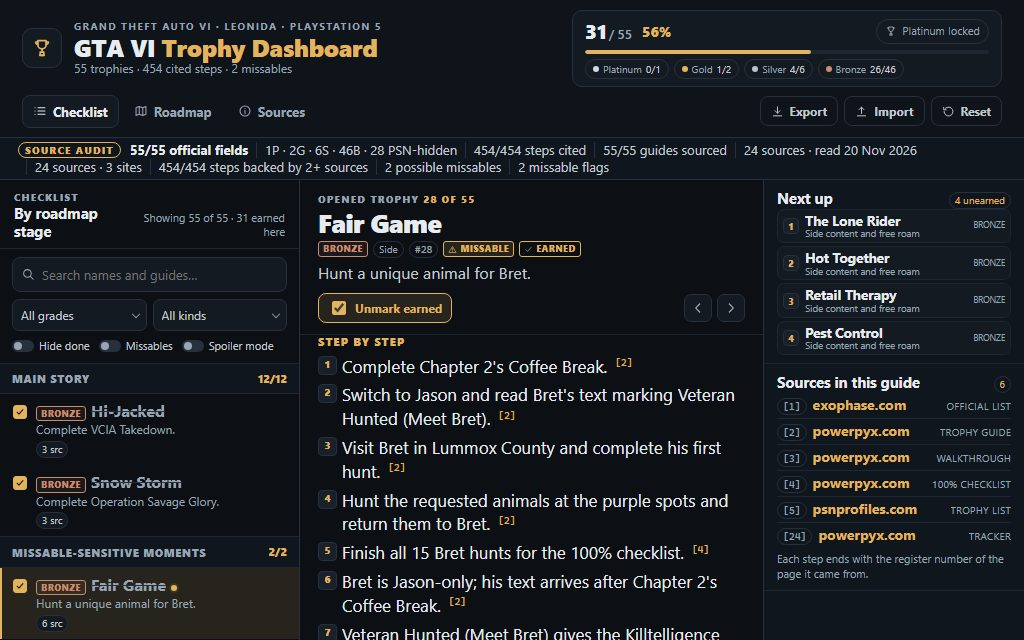
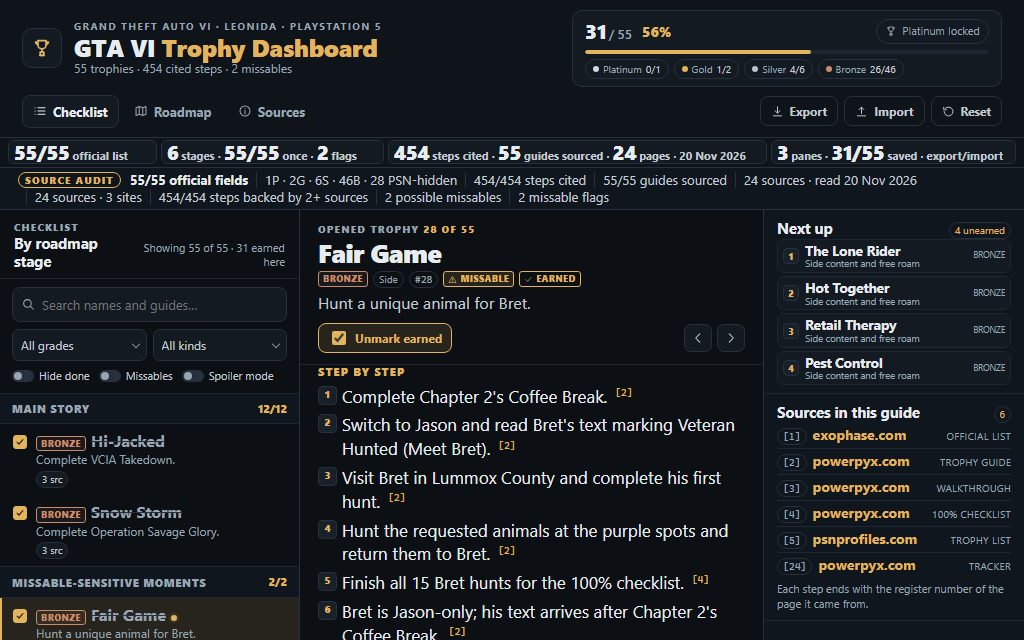
Cover: a rubric proof strip under the header, four computed facts the judge can check at a glance

diff --git a/app/app.js b/app/app.js
@@ -241,6 +241,46 @@ function filteredTrophies() {
   return TROPHY_REGISTER.trophies.filter((trophy) => trophyMatchesFilters(trophy, tokens));
 }
 
+function paintRubricStrip() {
+  const total = TROPHY_REGISTER.trophies.length;
+  const official = TROPHY_REGISTER.trophies.filter((trophy) => trophy.name && trophy.description && trophy.grade).length;
+  const stageTrophyIds = TROPHY_REGISTER.stages.flatMap((stage) => (stage.trophies || [])
+    .map((name) => TROPHY_REGISTER.byName.get(name))
+    .filter(Boolean)
+    .map((trophy) => Number(trophy.id)));
+  const stageCovered = new Set(stageTrophyIds).size;
+  const stagesExactlyOnce = stageTrophyIds.length === total && stageCovered === total;
+  const missableFlags = TROPHY_REGISTER.trophies.filter((trophy) => trophy.missable === true).length;
+  let steps = 0;
+  let cited = 0;
+  for (const trophy of TROPHY_REGISTER.trophies) {
+    for (const step of trophy.steps || []) {
+      steps += 1;
+      if (step && SOURCE_REGISTER.ids.has(Number(step.src))) cited += 1;
+    }
+  }
+  const guidesSourced = TROPHY_REGISTER.trophies.filter((trophy) => {
+    const sources = Array.isArray(trophy.sources) ? trophy.sources : [];
+    return sources.length > 0 && sources.every((id) => SOURCE_REGISTER.ids.has(Number(id))) && typeof trophy.guide === 'string' && trophy.guide.trim() !== '';
+  }).length;
+  const pages = SOURCE_REGISTER.sources.length;
+  const readDate = formatSourceReadDate(SOURCE_REGISTER.readDate);
+  const panes = document.querySelectorAll('.pane').length;
+  const saved = TRACKER_STATE.earned.size;
+  const transfer = DOM_BY_ID['export-progress-json-backup'] && DOM_BY_ID['import-progress-json-backup'] ? 'export/import' : 'unavailable';
+  const facts = {
+    'rubric-official-list-coverage': [[official + '/' + total, true], [' official list', false]],
+    'rubric-roadmap-and-missables': [[String(TROPHY_REGISTER.stages.length), true], [' stages · ', false], [stageCovered + '/' + total, true], [stagesExactlyOnce ? ' once · ' : ' mapped · ', false], [String(missableFlags), true], [' flags', false]],
+    'rubric-cited-guidance': [[String(cited), true], [' steps cited · ', false], [String(guidesSourced), true], [' guides sourced · ', false], [String(pages), true], [' pages · ', false], [readDate, false]],
+    'rubric-offline-tracker': [[String(panes), true], [' panes · ', false], [saved + '/' + total, true], [' saved · ', false], [transfer, false]],
+  };
+  for (const [id, parts] of Object.entries(facts)) {
+    const node = DOM_BY_ID[id];
+    if (!node) continue;
+    node.replaceChildren(...parts.map(([text, numeric]) => createNode('span', numeric ? 'rubric-num' : 'rubric-label', text)));
+  }
+}
+
 function paintProgressCard() {
   const total = TROPHY_REGISTER.trophies.length || 55;
   const earned = TRACKER_STATE.earned.size;
@@ -256,6 +296,7 @@ function paintProgressCard() {
   DOM_BY_ID['bar-fill'].style.width = percent + '%';
   DOM_BY_ID['platinum-status'].classList.toggle('is-earned', complete);
   DOM_BY_ID['platinum-text'].textContent = complete ? 'Platinum earned' : 'Platinum locked';
+  paintRubricStrip();
 }
 
 function paintGradeCounters() {

diff --git a/app/style.css b/app/style.css
@@ -201,6 +201,48 @@ h1 .grad { color: var(--accent); }
 .btn--danger { background: var(--accent); color: #1b1205; border-color: var(--accent); }
 .btn--danger-ghost:hover { color: var(--danger); border-color: var(--danger); }
 
+.rubric-strip {
+  flex: none;
+  display: grid;
+  grid-template-columns: 1fr 1.5fr 2.55fr 1.65fr;
+  gap: 4px;
+  padding: 2px 8px 3px;
+  background: var(--bg-2);
+  border-bottom: 1px solid var(--line);
+  font-variant-numeric: tabular-nums;
+}
+.rubric-fact {
+  min-width: 0;
+  margin: 0;
+  display: flex;
+  align-items: baseline;
+  gap: 3px;
+  padding: 1px 5px;
+  border: 1px solid var(--line);
+  border-radius: 6px;
+  background: var(--surface);
+  color: var(--text-2);
+  line-height: 1;
+  white-space: nowrap;
+  overflow: hidden;
+  text-overflow: ellipsis;
+}
+.rubric-num {
+  flex: none;
+  font-size: 20px;
+  line-height: 1;
+  font-weight: 800;
+  letter-spacing: -.02em;
+  color: var(--text);
+}
+.rubric-label {
+  font-size: 11px;
+  line-height: 1;
+  font-weight: 650;
+  letter-spacing: .01em;
+  color: var(--text-2);
+}
+
 .audit-ribbon-shell { display: contents; }
 .audit-ribbon {
   flex: none;
@@ -822,7 +864,7 @@ select {
   background: var(--surface-2);
   overflow: hidden;
 }
-.source-row--register { padding: 6px 10px; border-bottom: 1px solid var(--line-soft); }
+.source-row--register { padding: 3px 10px; border-bottom: 1px solid var(--line-soft); }
 .source-row--register .source-row-top { align-items: center; gap: 7px; }
 .source-row--register .source-register-title {
   font-size: 15px; line-height: 1.25; font-weight: 650;
@@ -895,6 +937,7 @@ select {
   .header-top { gap: 10px; }
   .brand { flex: 1 1 100%; }
   .progress-card { flex: 1 1 100%; min-width: 0; }
+  .rubric-strip { grid-template-columns: repeat(2, minmax(0, 1fr)); padding: 3px 14px 4px; }
   .audit-ribbon { padding: 7px 14px; }
   .audit-ribbon::before { flex-basis: 100%; width: max-content; margin: 0 0 3px; }
   .audit-fact { white-space: normal; }

diff --git a/app/index.html b/app/index.html
@@ -88,6 +88,13 @@
     </div>
   </header>
 
+  <div class="rubric-strip" id="rubric-facts" aria-label="rubric facts computed from the trophy data at run time">
+    <p class="rubric-fact" id="rubric-official-list-coverage" aria-label="official list coverage, all 55 trophies with name, description and grade"></p>
+    <p class="rubric-fact" id="rubric-roadmap-and-missables" aria-label="roadmap and missables, six stages covering all 55 trophies exactly once with missable flags"></p>
+    <p class="rubric-fact" id="rubric-cited-guidance" aria-label="cited guidance, numbered steps cited, guides sourced and register pages with the read date"></p>
+    <p class="rubric-fact" id="rubric-offline-tracker" aria-label="offline tracker, three panes, saved progress, export and import"></p>
+  </div>
+
   <div class="audit-ribbon-shell" id="audit-rubric-coverage" aria-label="audit ribbon, coverage of the official list, citations, sources and missables">
     <div class="audit-ribbon" id="audit-strip" aria-label="Source-verification audit">
       <span class="audit-fact audit-fact--lead" id="audit-official-list-coverage" aria-label="coverage check, all 55 official names, descriptions and grades"><span id="audit-official"></span></span>
